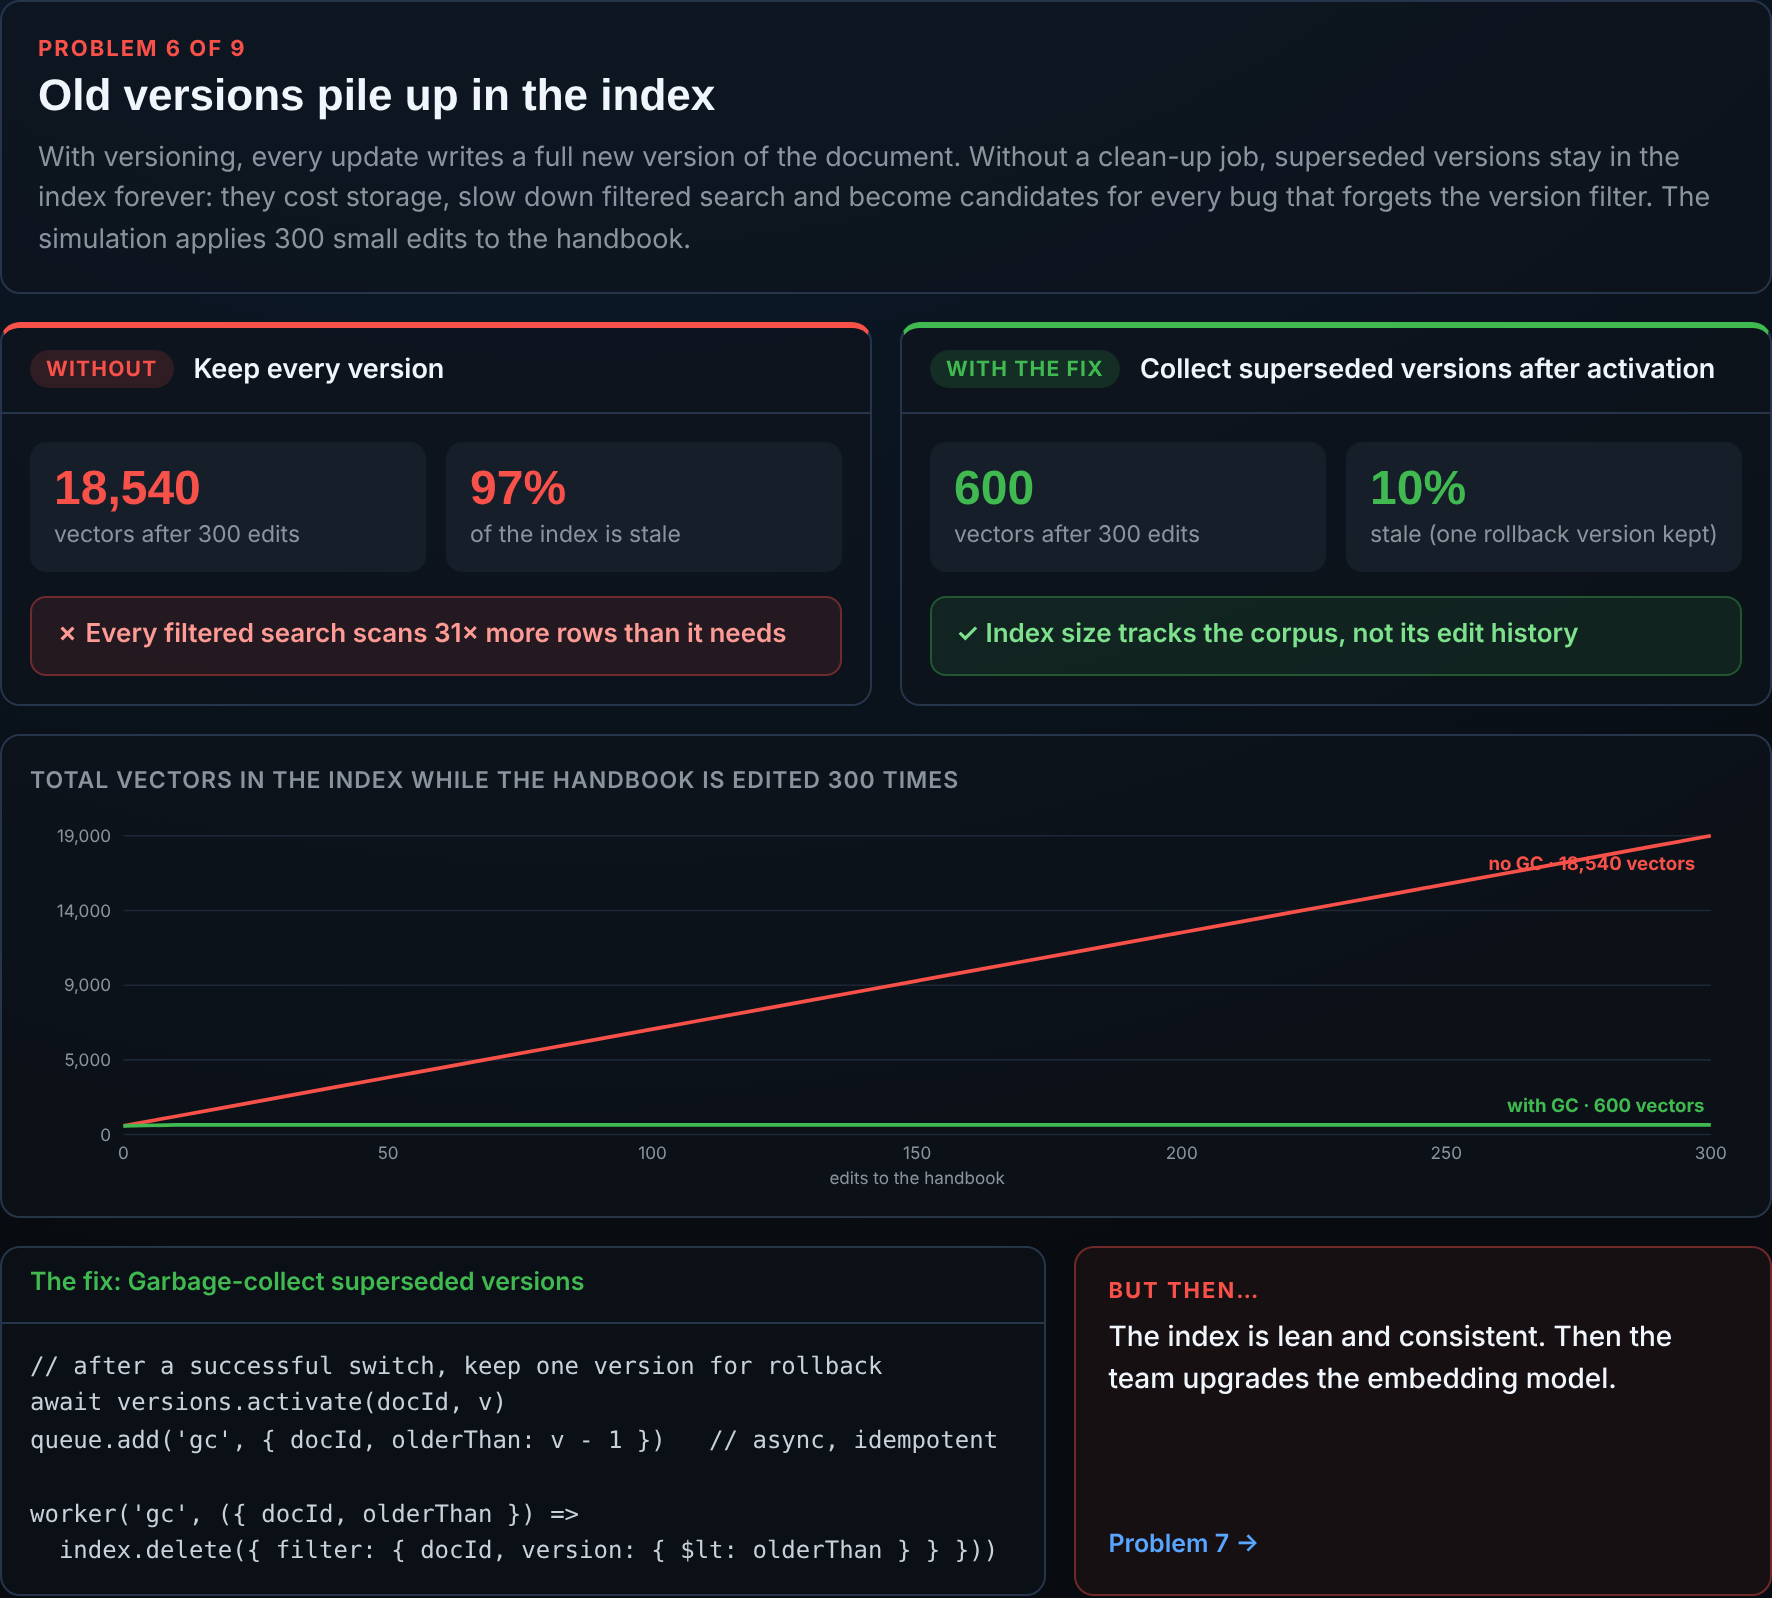
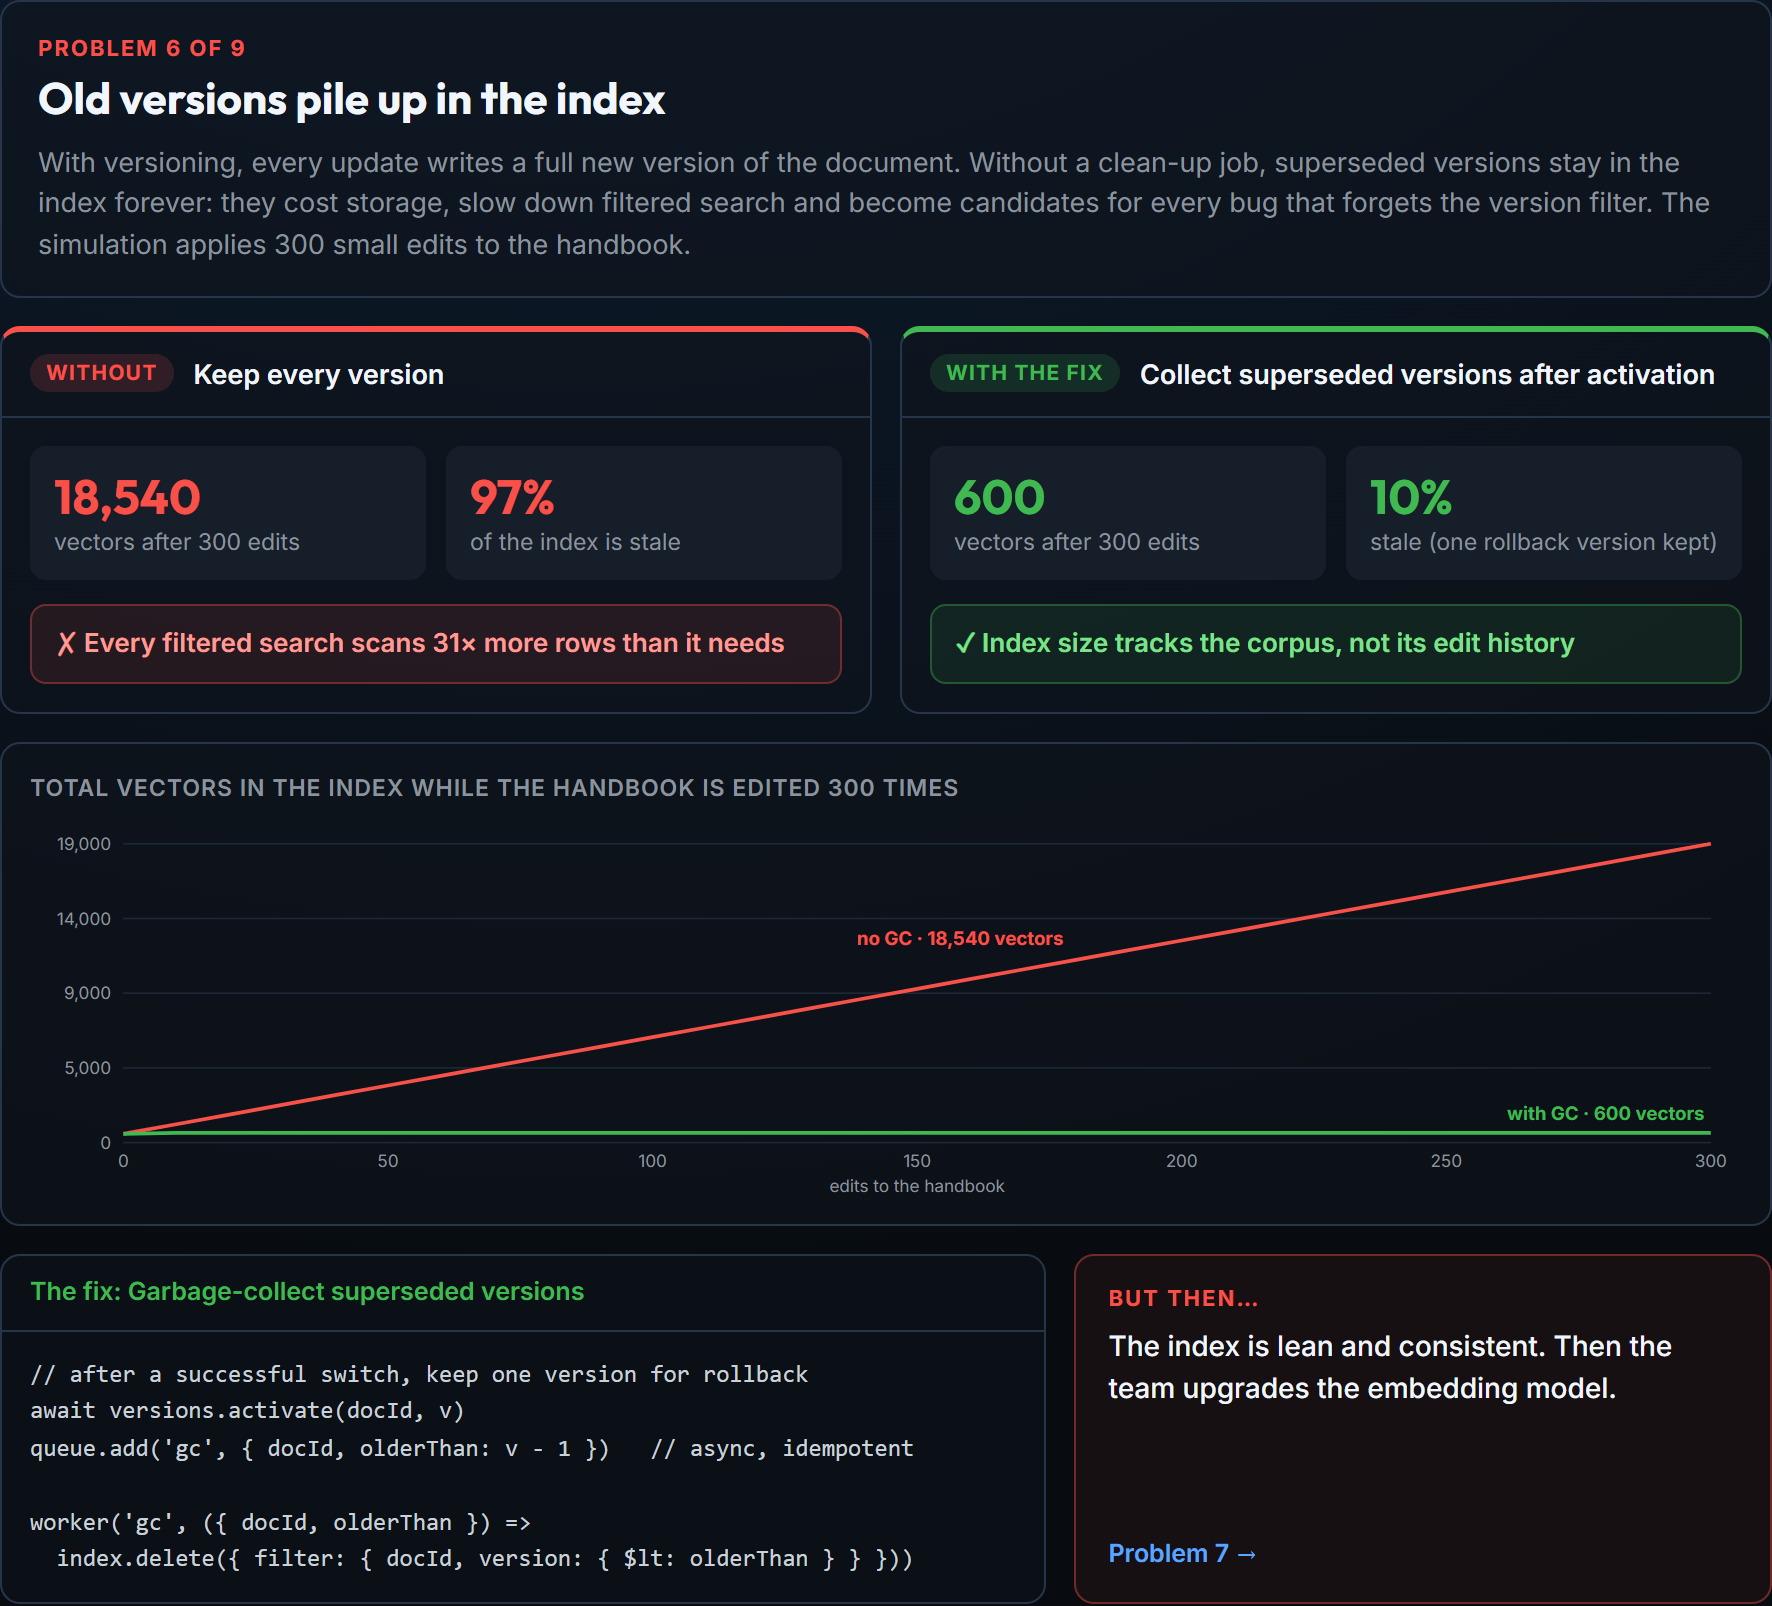
Move Problem 6 chart label off the line

diff --git a/src/production.js b/src/production.js
@@ -213,7 +213,7 @@ const RENDER = {
     g += `<text class="axis" x="${(pl + W - pr) / 2}" y="${H - 2}" text-anchor="middle">edits to the handbook</text>`
     const line = (s, c) => `<polyline fill="none" stroke="${c}" stroke-width="2.4" points="${s.map(p => `${X(p[0])},${Y(p[1])}`).join(' ')}"/>`
     g += line(r.without.series, '#f85149') + line(r.with.series, '#3fb950')
-    g += `<text class="lbl" fill="#f85149" x="${X(maxX) - 10}" y="${Y(r.without.total) + 22}" text-anchor="end">no GC · ${num(r.without.total)} vectors</text>`
+    g += `<text class="lbl" fill="#f85149" x="${X(maxX * 0.6) - 8}" y="${Y(maxY * 0.6) - 12}" text-anchor="end">no GC · ${num(r.without.total)} vectors</text>`
     g += `<text class="lbl" fill="#3fb950" x="${X(maxX) - 4}" y="${Y(r.with.total) - 8}" text-anchor="end">with GC · ${num(r.with.total)} vectors</text>`
     return [
       `<div class="tiles">${tile(num(r.without.total), 'vectors after 300 edits', 'bad')}${tile(pct(r.without.stalePct), 'of the index is stale', 'bad')}</div>
